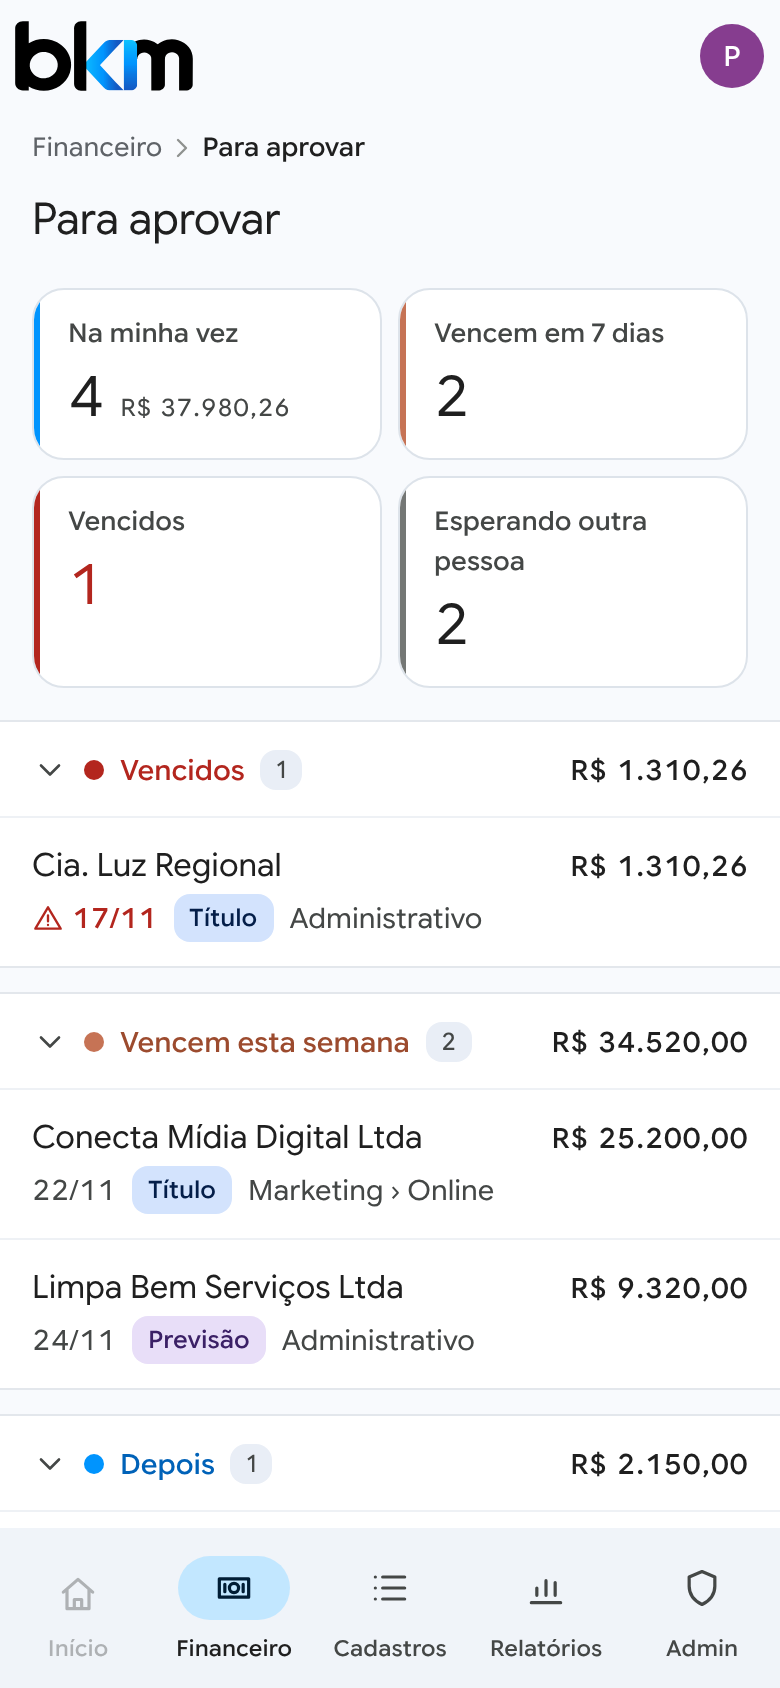
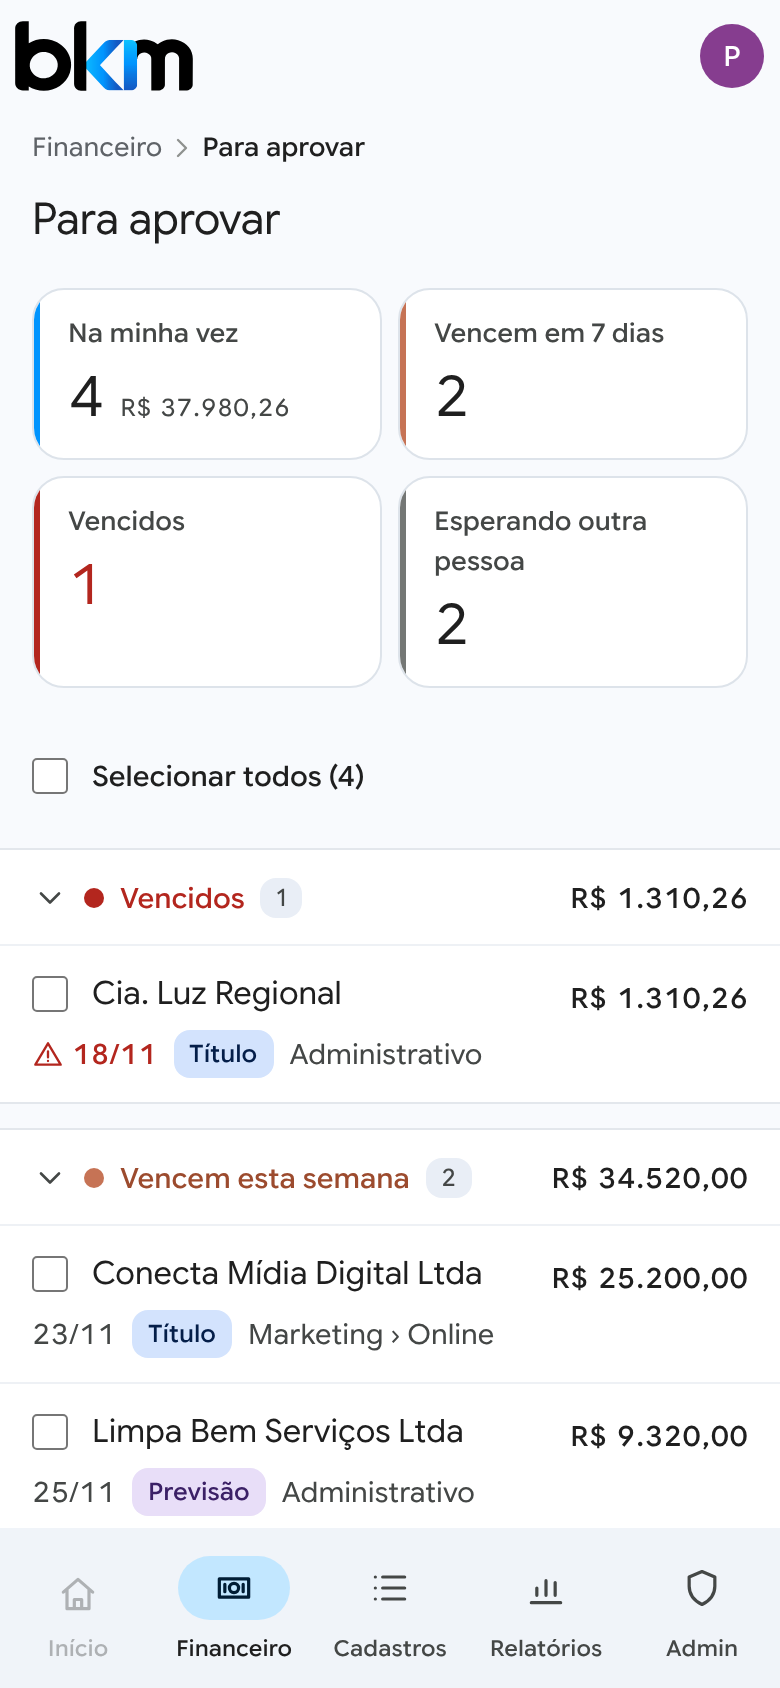
Para aprovar: marcar vários e selecionar todos (pedido do Moises)
Claude-Session: https://claude.ai/code/session_01KV2LwR2SUtD18ECjF8APje

diff --git a/apps/web/src/pages/Aprovar.tsx b/apps/web/src/pages/Aprovar.tsx
@@ -30,6 +30,8 @@ export function Aprovar() {
   const pg = usePagina<F>('/aprovar');
   const q = useQuery({ queryKey: ['aprovacoes'], queryFn: () => rpc<Aprovacao[]>('aprovacoes') });
   const [aviso, setAviso] = useState<string | null>(null);
+  const [marcados, setMarcados] = useState<Set<string>>(new Set());
+  const qc = useQueryClient();
   useEffect(() => { if (!aviso) return; const t = setTimeout(() => setAviso(null), 5000); return () => clearTimeout(t); }, [aviso]);
 
   const todos = (q.data ?? []).filter(a => acha(pg.busca, a.fornecedor, a.descricao, a.area, a.empresa, a.lancado_por));
@@ -42,11 +44,34 @@ export function Aprovar() {
   ];
   // Na minha vez mostra os três grupos da vez; os outros contadores, só o seu grupo
   const grupos = G.filter(g => !pg.filtro || pg.filtro === g[0] || (pg.filtro === 'vez' && g[0] !== 'out'));
+  // seleção em lote: só o que está na vez da pessoa e à vista (filtro e busca); cada item passa pela decisão de sempre
+  const visiveis = grupos.flatMap(g => g[3]).filter(a => a.vez);
+  const sel = visiveis.filter(a => marcados.has(chave(a)));
+  const todosMarcados = visiveis.length > 0 && sel.length === visiveis.length;
+  const trocar = (k: string) => setMarcados(m => { const n = new Set(m); if (n.has(k)) n.delete(k); else n.add(k); return n; });
+  const lote = useMutation({
+    mutationFn: async (itens: Aprovacao[]) => {
+      const erros: string[] = []; let ok = 0;
+      for (const a of itens) {
+        try { await rpc<string>('decidir', { p_tipo: a.tipo, p_id: a.id, p_decisao: 'aprovar', p_justificativa: null, p_centro: a.centro_id, p_divisao: a.divisao_id }); ok++; }
+        catch (e) { erros.push(`${a.fornecedor ?? a.descricao ?? 'item'}: ${mensagemErro(e)}`); }
+      }
+      return { ok, erros };
+    },
+    onSettled: () => { for (const k of ['aprovacoes', 'titulos', 'previsoes', 'contratos', 'titulo', 'rastro']) qc.invalidateQueries({ queryKey: [k] }); },
+    onSuccess: ({ ok, erros }) => {
+      setMarcados(new Set());
+      setAviso(erros.length ? `${ok} aprovado${ok === 1 ? '' : 's'}; ${erros.length} não: ${erros.join(' · ')}` : `${ok} aprovado${ok === 1 ? '' : 's'}.`);
+    },
+  });
   const linha = (a: Aprovacao): Linha => {
     const dt = a.data && <span className={`num ${vencido(a) ? 'atras' : ''}`}>{vencido(a) && <Ic n="warn" s={16} />}{dataCurta(a.data)}</span>;
     return {
       id: chave(a),
-      titulo: a.fornecedor ?? a.descricao ?? '—',
+      titulo: a.vez
+        ? <span className="apr-ck"><input type="checkbox" checked={marcados.has(chave(a))} aria-label={`Marcar ${a.fornecedor ?? a.descricao ?? 'item'}`}
+            onClick={e => e.stopPropagation()} onKeyDown={e => e.stopPropagation()} onChange={() => trocar(chave(a))} />{a.fornecedor ?? a.descricao ?? '—'}</span>
+        : <span className="apr-ck"><span className="apr-ck-v" />{a.fornecedor ?? a.descricao ?? '—'}</span>,
       cels: [
         { c: <Chip t={TIPO[a.tipo][0]} c={TIPO[a.tipo][1]} /> },
         { c: a.area, x: true },
@@ -75,6 +100,18 @@ export function Aprovar() {
         {q.isLoading ? <Carregando /> : q.error ? <Vazio t={mensagemErro(q.error)} />
           : vazio ? <Vazio t={pg.busca || pg.filtro ? 'Nada encontrado.' : 'Nada esperando aprovação.'} limpar={pg.busca || pg.filtro ? pg.limpar : undefined} />
           : <>
+              {visiveis.length > 0 && (
+                <div className={`apr-lote ${sel.length ? 'on' : ''}`}>
+                  <label className="apr-ck"><input type="checkbox" checked={todosMarcados} ref={el => { if (el) el.indeterminate = sel.length > 0 && !todosMarcados; }}
+                    onChange={() => setMarcados(todosMarcados ? new Set() : new Set(visiveis.map(chave)))} />
+                    {sel.length ? `${sel.length} selecionado${sel.length === 1 ? '' : 's'} · ${reais(soma(sel))}` : `Selecionar todos (${visiveis.length})`}</label>
+                  <span className="esp" />
+                  {sel.length > 0 && <>
+                    <button className="btn t" onClick={() => setMarcados(new Set())} disabled={lote.isPending}>Limpar</button>
+                    <button className="btn p" onClick={() => lote.mutate(sel)} disabled={lote.isPending}>{lote.isPending ? 'Aprovando…' : `Aprovar ${sel.length}`}</button>
+                  </>}
+                </div>
+              )}
               <Colunas cols={COLS} rot={ROT} />
               {grupos.map(([k, nome, cor, it]) => (
                 <Grupo key={k} nome={nome} cor={cor} linhas={it.map(linha)} total={reais(soma(it))} sel={pg.id} abrir={pg.abrir} cols={COLS} fechado={k === 'out' && pg.filtro !== 'out'} />

diff --git a/apps/web/src/app.css b/apps/web/src/app.css
@@ -351,3 +351,12 @@ button.lt-o:hover{background:#f1f4f9}
   .f-gav .gav-f .apr-ok{order:-1;flex-basis:100%}
   .f-gav .gav-f:has(.apr-ok) .esp{display:none}
 }
+/* seleção em lote do Para aprovar */
+.apr-ck{display:inline-flex;align-items:center;gap:12px;min-width:0}
+.apr-ck input{width:18px;height:18px;margin:0;flex:none;accent-color:#0b57d0;cursor:pointer}
+.apr-ck-v{width:18px;flex:none}
+.apr-lote{position:sticky;top:0;z-index:5;display:flex;align-items:center;gap:8px;min-height:56px;padding:0 16px 0 34px;margin-bottom:8px;border-radius:16px;background:var(--m-surface,#f8fafd)}
+.apr-lote.on{background:#d3e3fd}
+.apr-lote label{font-size:14px;font-weight:500;cursor:pointer}
+@media (max-width:760px){ .apr-lote{padding:0 16px;margin:0 0 8px;border-radius:0} .apr-lote.on .btn.p{flex:none} }
+.apr-lote .esp{flex:1}

diff --git a/docs/tecnico/05-contas-a-pagar.md b/docs/tecnico/05-contas-a-pagar.md
@@ -51,7 +51,7 @@ Decisões do Moises (8, 14 e 17/nov/2026). Só a previsão aprovada vai ao Sieng
 - **Envio ao Sienge**: a previsão aprovada aberta vai como título PRV; a que deixa de ser aberta vira linha a apagar à mão (ver `04-integracao-sienge.md`, 4.7.1).
 
 
-**Tela Para aprovar [Construído, 19/nov/2026]** (`apps/web/src/pages/Aprovar.tsx`, `/aprovar`, Financeiro › Para aprovar): títulos, previsões e contratos que esperam aprovação, em Vencidos, Vencem esta semana, Depois e Esperando outra pessoa (fechado), com os contadores Na minha vez, Vencem em 7 dias, Vencidos e Esperando outra pessoa. A gaveta mostra o valor da parte da pessoa (no rateio, "parte de Marketing em R$ 42.000,00"), o rastro do título, quem lançou e o que falta aprovar; na vez, Recusar (pede justificativa), Pedir ajuste (só título; volta para quem lançou) e Aprovar ("Aprovar a parte de …" no rateio). Fora da vez, a mensagem que a decisão daria (quem lançou não aprova, a fase é do gestor, já aprovou). A regra de quem decide fica só nas funções de decisão do banco; a tela pergunta a elas (ver [03](03-banco-de-dados.md)). Fora desta versão: aprovar vários de uma vez.
+**Tela Para aprovar [Construído, 19/nov/2026]** (`apps/web/src/pages/Aprovar.tsx`, `/aprovar`, Financeiro › Para aprovar): títulos, previsões e contratos que esperam aprovação, em Vencidos, Vencem esta semana, Depois e Esperando outra pessoa (fechado), com os contadores Na minha vez, Vencem em 7 dias, Vencidos e Esperando outra pessoa. A gaveta mostra o valor da parte da pessoa (no rateio, "parte de Marketing em R$ 42.000,00"), o rastro do título, quem lançou e o que falta aprovar; na vez, Recusar (pede justificativa), Pedir ajuste (só título; volta para quem lançou) e Aprovar ("Aprovar a parte de …" no rateio). Fora da vez, a mensagem que a decisão daria (quem lançou não aprova, a fase é do gestor, já aprovou). A regra de quem decide fica só nas funções de decisão do banco; a tela pergunta a elas (ver [03](03-banco-de-dados.md)). Aprovar vários de uma vez (Moises, 20/nov/2026): caixa em cada item na vez da pessoa e "Selecionar todos" (o que está à vista, com filtro e busca); "Aprovar N" chama `api.decidir` item a item, cada um pela regra de sempre, e diz quantos passaram e por que os outros não.
 ## 5.3 "Lançar nota fiscal" [Desenhado; primeira tela construída em 19/nov/2026]
 
 **[Construído, 19/nov/2026] Tela Lançar título** (`apps/web/src/pages/Lancar.tsx`, `api.lancar_titulo`): empresa, fornecedor buscado no cadastro, tipo, número, série, emissão, competência e valor; rateio em uma ou mais linhas (núcleo, centro, último nível da divisão e as naturezas que o perfil libera ali); as previsões abertas que casam com o rateio, com o número PRV do Sienge, para marcar quais a nota consome; parcelas iguais com a forma de pagamento de cada uma (PIX, com a chave do documento do fornecedor sugerida, ou boleto); etiquetas. Ainda sem leitura do PDF ou do XML, sem retenção e sem caução. O contrato preso à nota precisa ser da mesma empresa e do mesmo fornecedor, estar ativo e ser visível para quem lança (gatilho `t_contrato_confere`, também em `titulos`).
